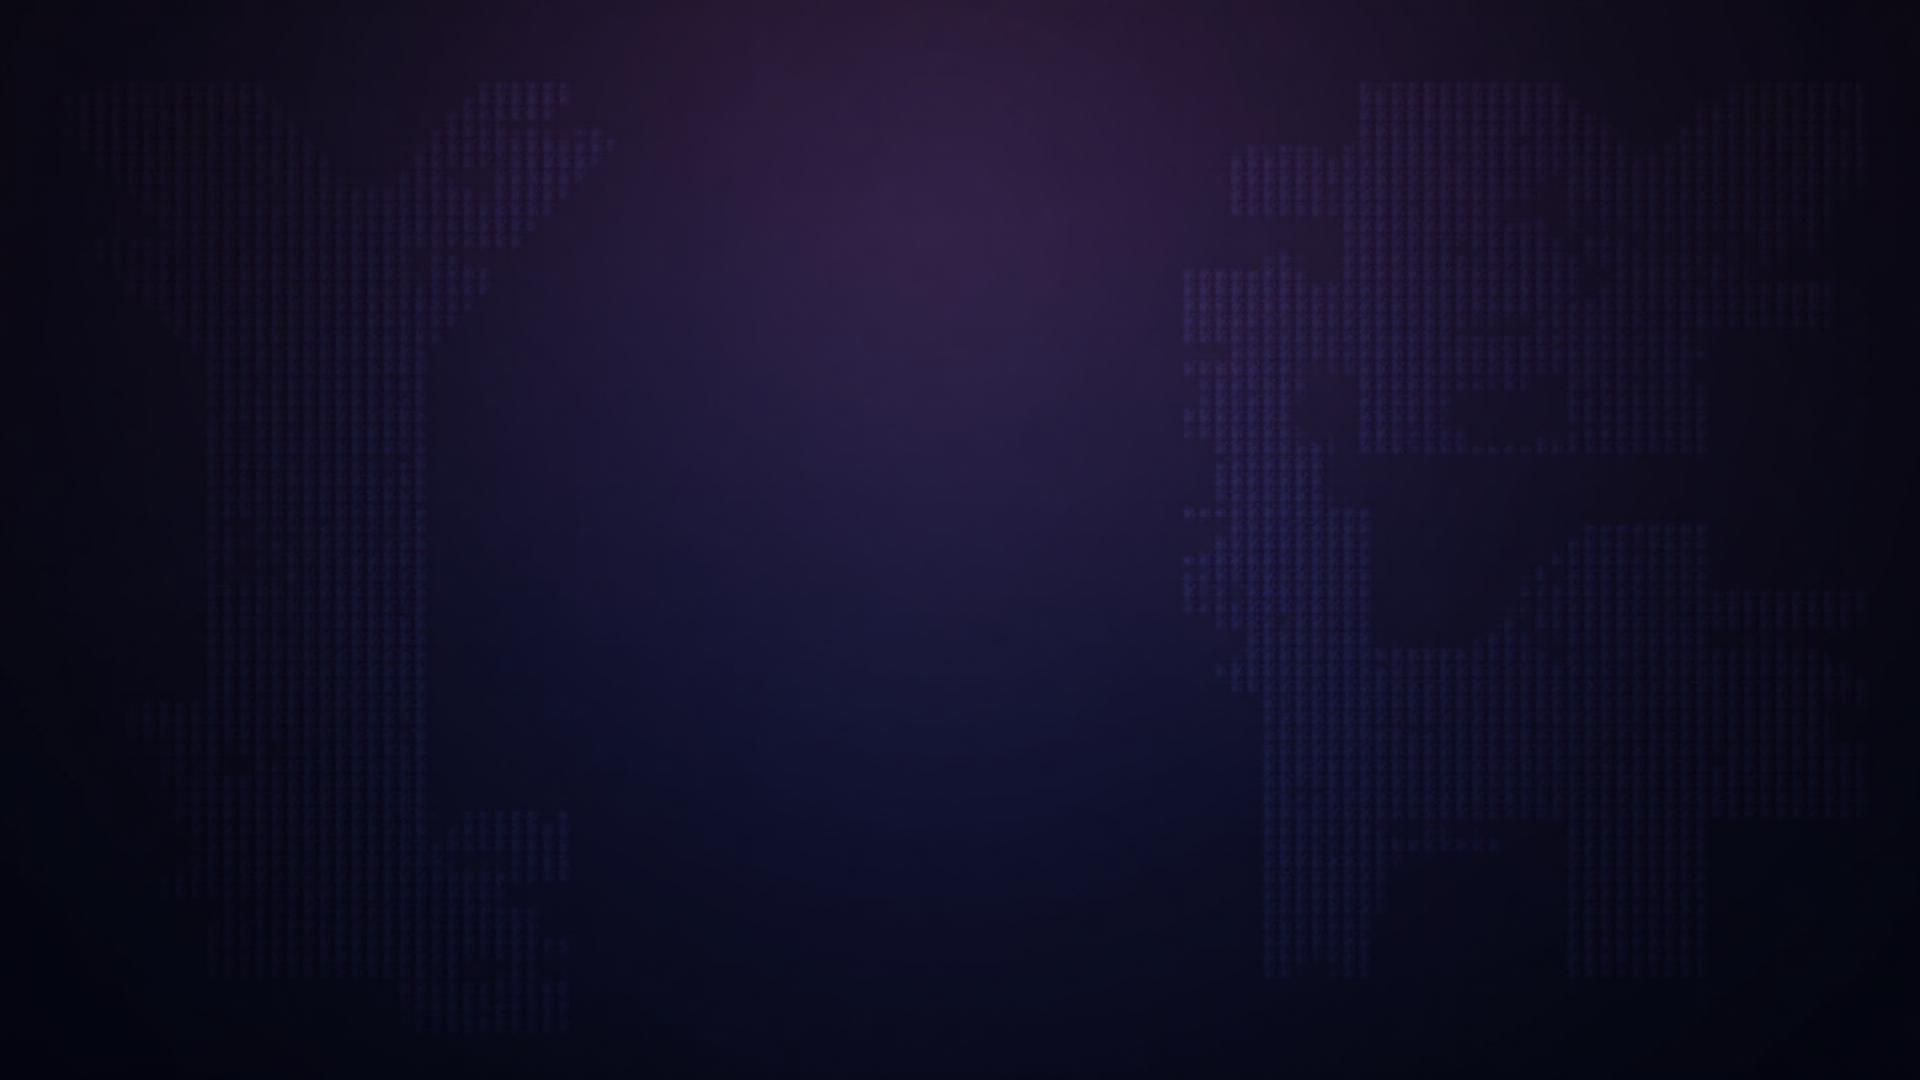
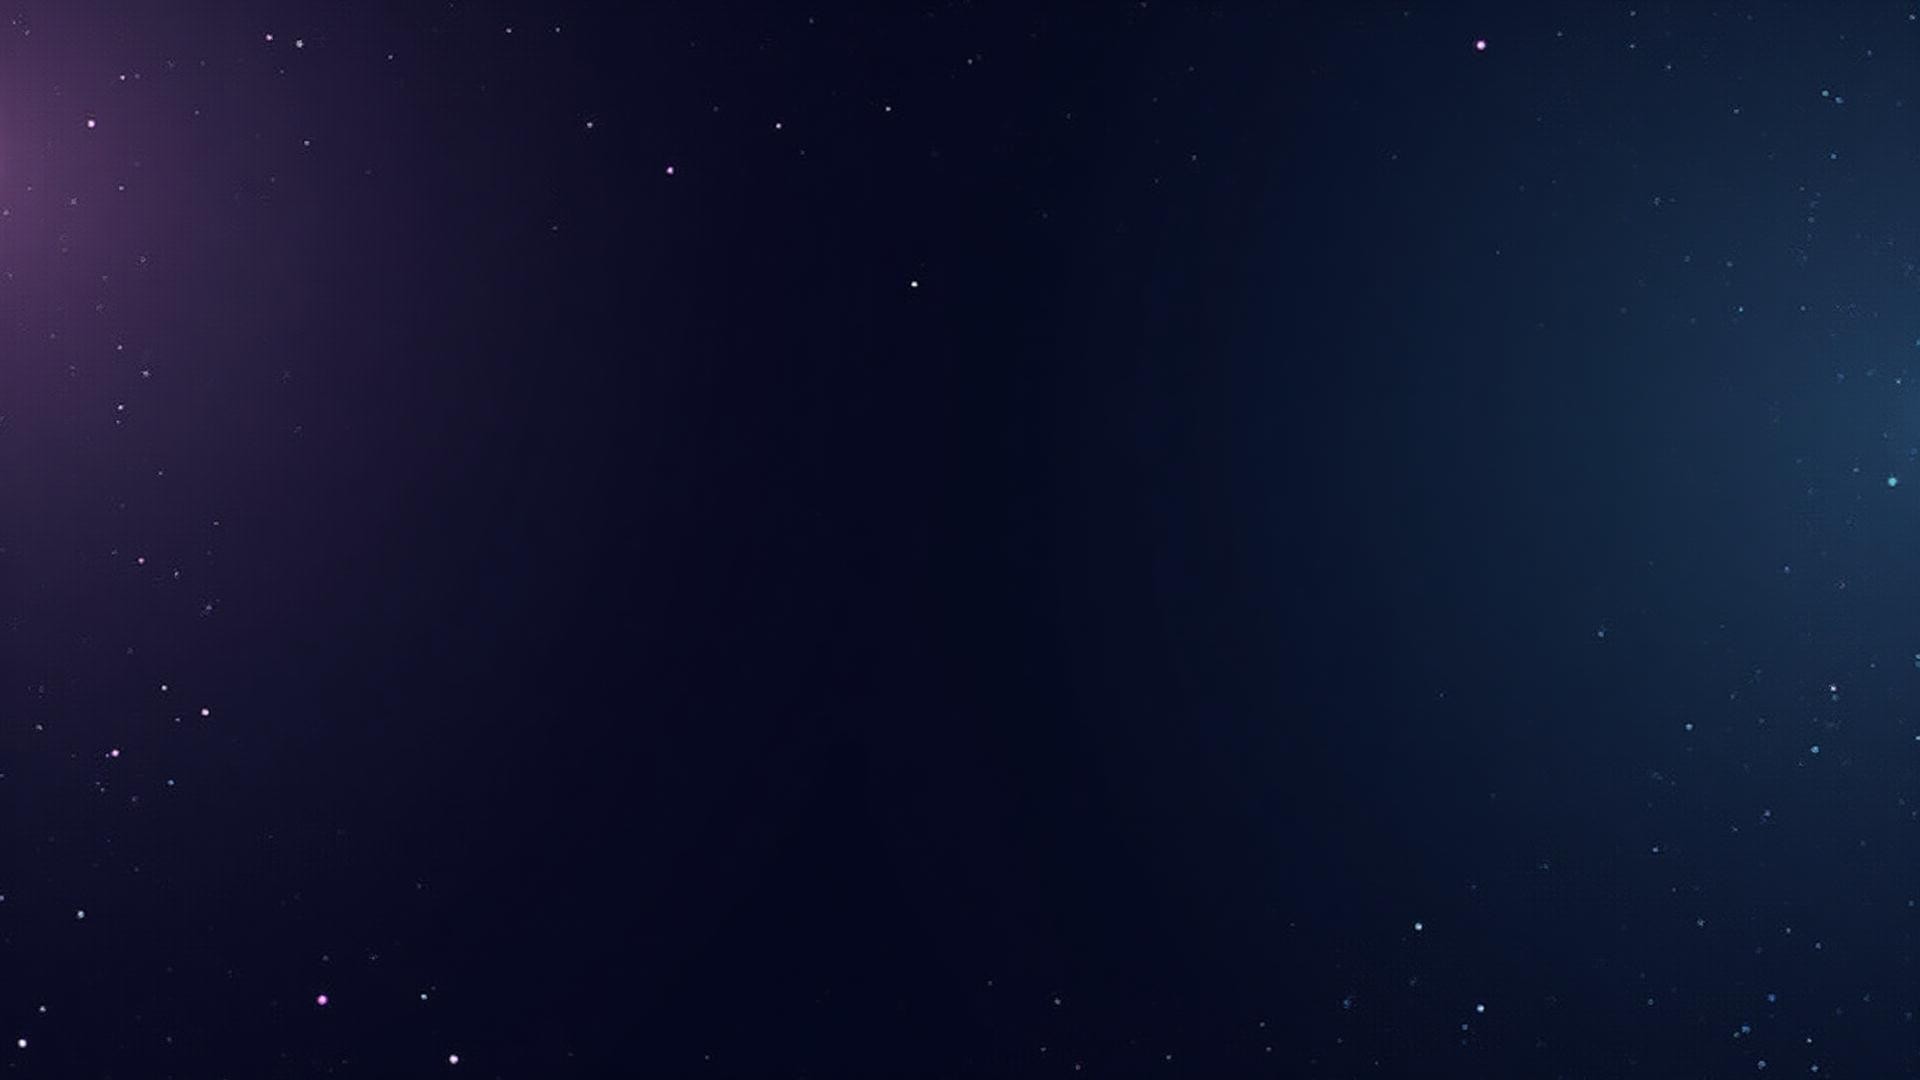
Add professional background and intro

diff --git a/src/components/IntroAnimation.tsx b/src/components/IntroAnimation.tsx
@@ -1,0 +1,33 @@
+import { useEffect, useState } from "react";
+
+const IntroAnimation = () => {
+  const [isVisible, setIsVisible] = useState(true);
+
+  useEffect(() => {
+    const timer = setTimeout(() => {
+      setIsVisible(false);
+    }, 3000);
+
+    return () => clearTimeout(timer);
+  }, []);
+
+  if (!isVisible) return null;
+
+  return (
+    <div className="fixed inset-0 z-50 flex items-center justify-center bg-background animate-fade-out">
+      <div className="text-center perspective-1000">
+        <div className="animate-scale-in">
+          <p className="text-xl md:text-2xl text-muted-foreground mb-4 tracking-widest uppercase animate-fade-in">
+            Welcome To
+          </p>
+          <h1 className="text-6xl md:text-8xl font-montserrat font-bold gradient-text animate-fade-in-scale">
+            Vanshu's Portfolio
+          </h1>
+          <div className="mt-8 w-32 h-1 bg-primary-gradient mx-auto animate-expand"></div>
+        </div>
+      </div>
+    </div>
+  );
+};
+
+export default IntroAnimation;

diff --git a/src/index.css b/src/index.css
@@ -116,4 +116,53 @@ All colors MUST be HSL.
   .smooth-transition {
     transition: var(--transition-smooth);
   }
+  
+  .perspective-1000 {
+    perspective: 1000px;
+  }
+  
+  @keyframes fade-out {
+    0% {
+      opacity: 1;
+    }
+    80% {
+      opacity: 1;
+    }
+    100% {
+      opacity: 0;
+      visibility: hidden;
+    }
+  }
+  
+  @keyframes fade-in-scale {
+    0% {
+      opacity: 0;
+      transform: scale(0.8) translateZ(0);
+    }
+    100% {
+      opacity: 1;
+      transform: scale(1) translateZ(0);
+    }
+  }
+  
+  @keyframes expand {
+    0% {
+      width: 0;
+    }
+    100% {
+      width: 8rem;
+    }
+  }
+  
+  .animate-fade-out {
+    animation: fade-out 3s ease-out forwards;
+  }
+  
+  .animate-fade-in-scale {
+    animation: fade-in-scale 1s ease-out 0.5s backwards;
+  }
+  
+  .animate-expand {
+    animation: expand 1s ease-out 1.5s backwards;
+  }
 }

diff --git a/src/pages/Index.tsx b/src/pages/Index.tsx
@@ -4,10 +4,12 @@ import About from "@/components/About";
 import Skills from "@/components/Skills";
 import Contact from "@/components/Contact";
 import Footer from "@/components/Footer";
+import IntroAnimation from "@/components/IntroAnimation";
 
 const Index = () => {
   return (
     <div className="min-h-screen">
+      <IntroAnimation />
       <Navbar />
       <main>
         <Hero />
